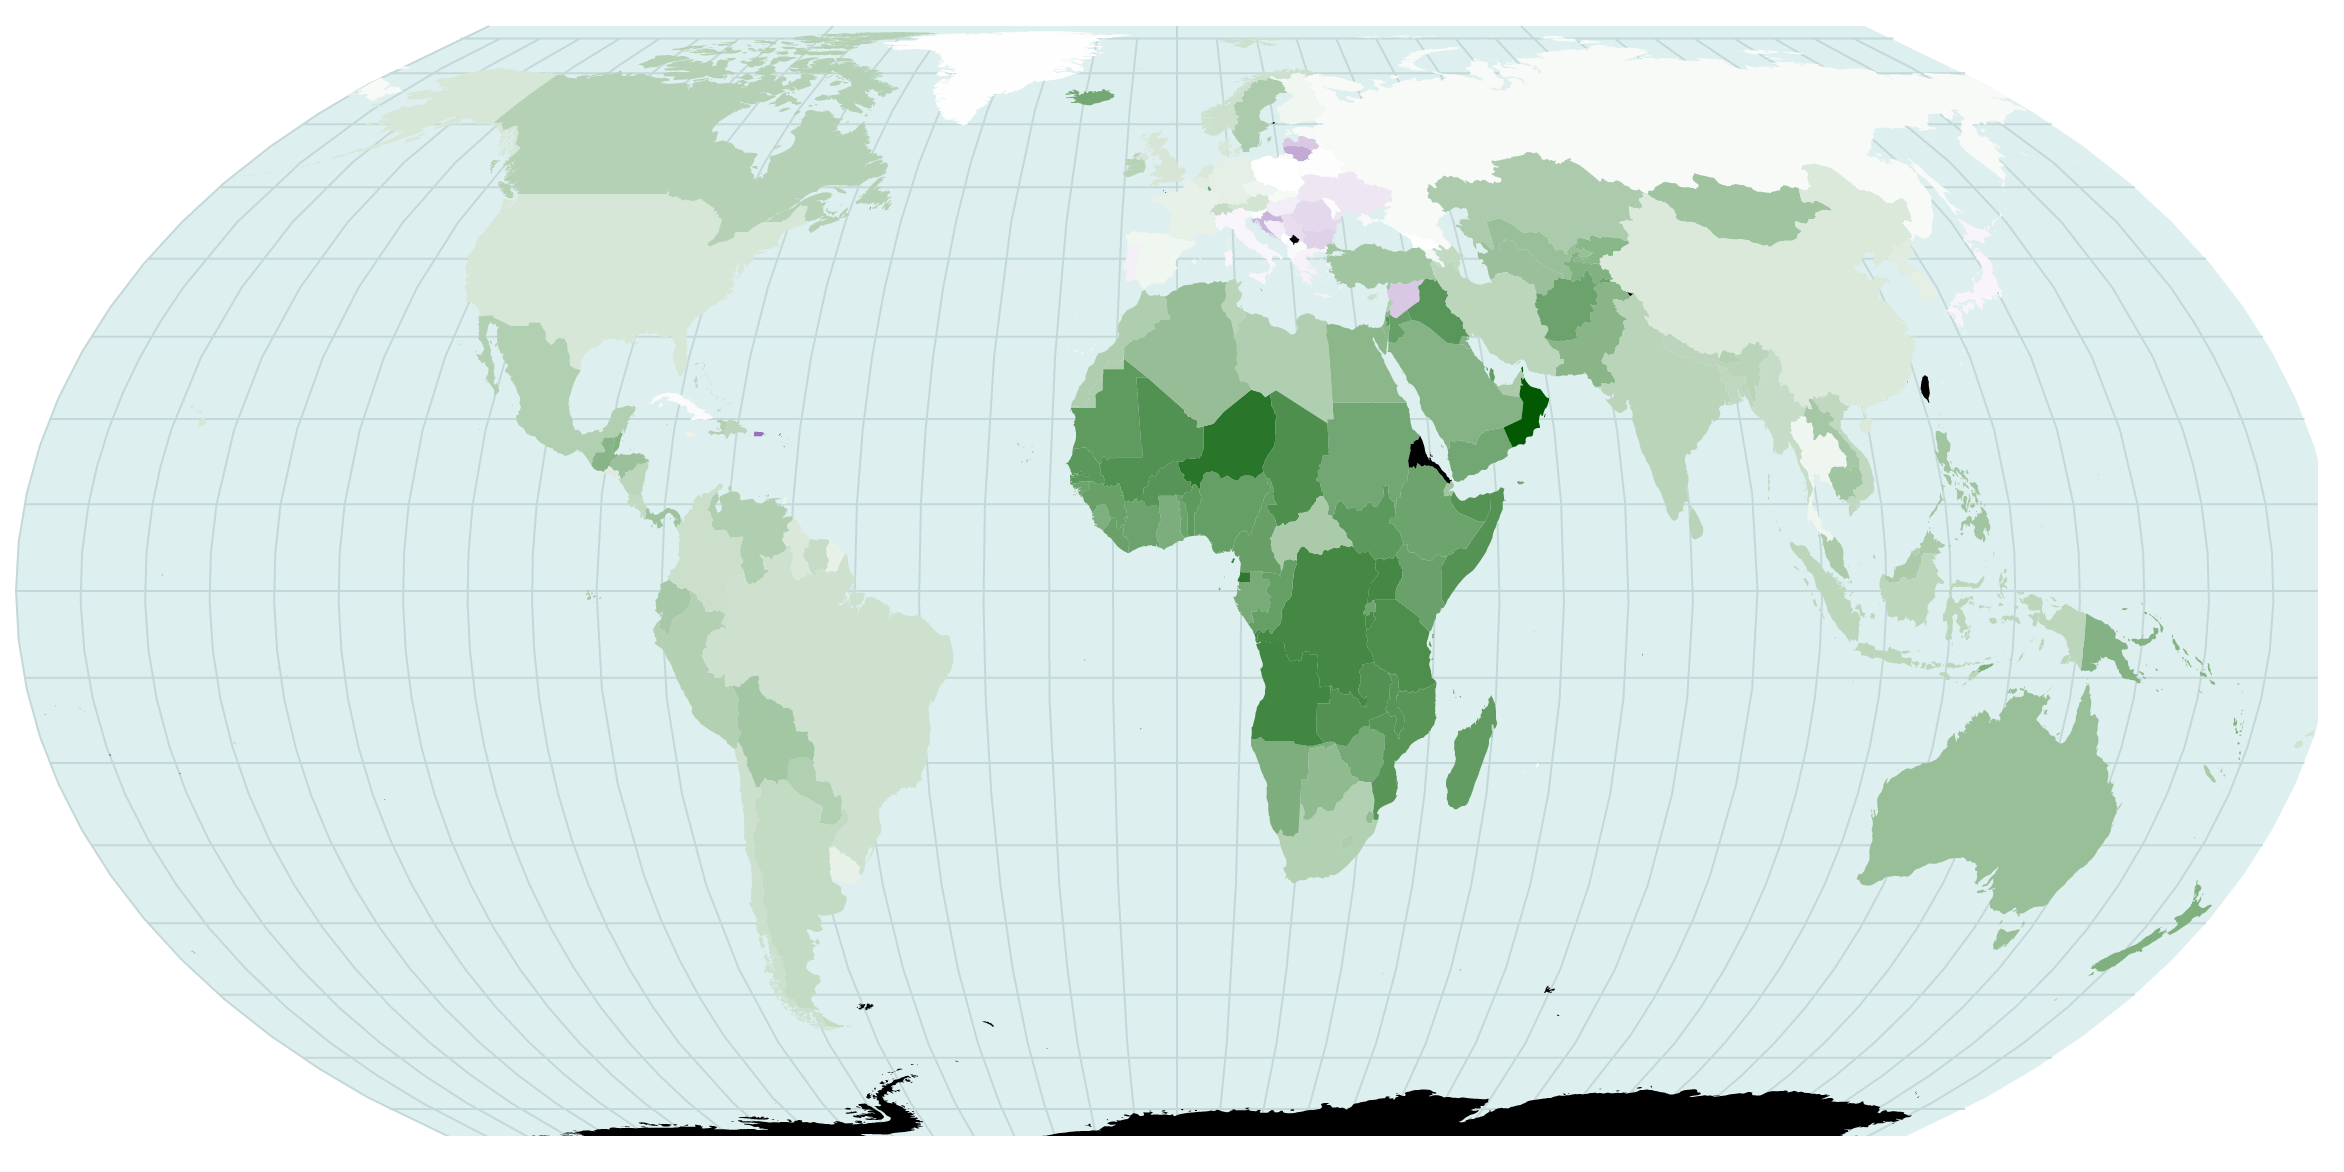
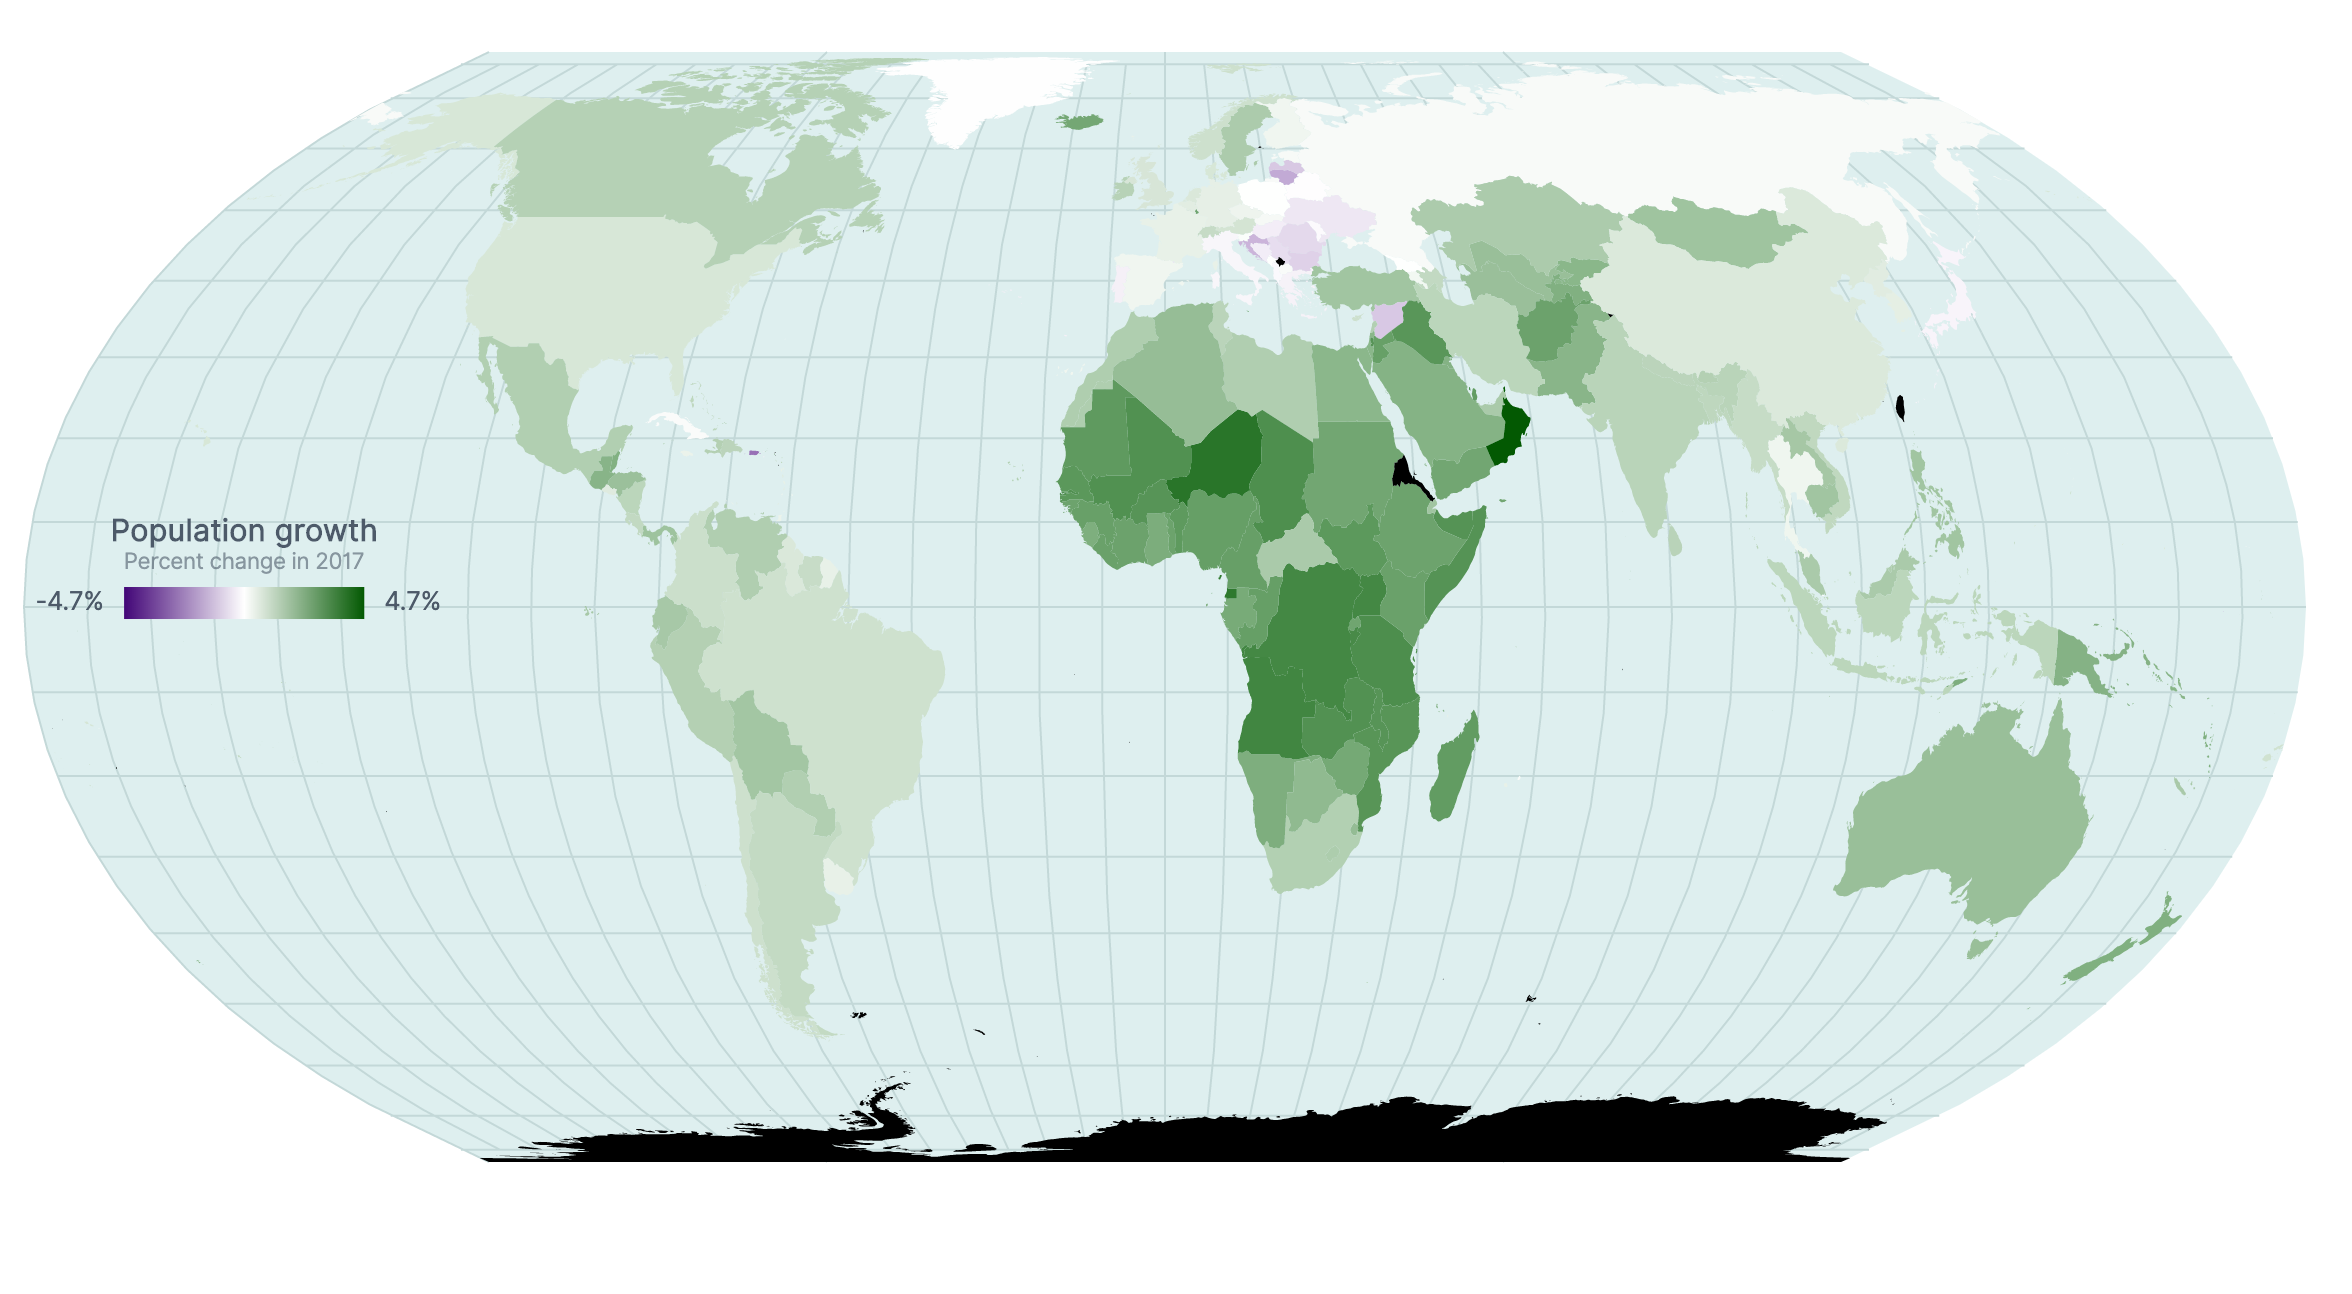
Map legend is now complete

diff --git a/examples/06-making-a-map/js/draw-map.js b/examples/06-making-a-map/js/draw-map.js
@@ -1,17 +1,17 @@
 async function drawMap() {
   // Access data
-  const countryShapes = await d3.json("./data/world-geojson.json")
-  const countryNameAccessor = d => d.properties["NAME"]
-  const countryIdAccessor = d => d.properties["ADM0_A3_IS"]
+  const countryShapes = await d3.json('./data/world-geojson.json')
+  const countryNameAccessor = d => d.properties['NAME']
+  const countryIdAccessor = d => d.properties['ADM0_A3_IS']
 
-  const dataset = await d3.csv("./data/world_bank_data.csv")
-  const metric = "Population growth (annual %)"
+  const dataset = await d3.csv('./data/world_bank_data.csv')
+  const metric = 'Population growth (annual %)'
 
   // We want an easy way to look up the population growth using a country name
   let metricDataByCountry = {}
   dataset.forEach(d => {
-    if (d["Series Name"] != metric) return
-    metricDataByCountry[d["Country Code"]] = d["2017 [YR2017]"] || 0
+    if (d['Series Name'] != metric) return
+    metricDataByCountry[d['Country Code']] = d['2017 [YR2017]'] || 0
   })
 
   // Create chart dimensions
@@ -25,13 +25,15 @@ async function drawMap() {
       left: 10,
     },
   }
-  dimensions.boundedWidth = dimensions.width
+  dimensions.boundedWidth =
+    dimensions.width - dimensions.margin.left - dimensions.margin.right
 
   // Define our globe using a mock GeoJSON object
-  const sphere = ({ type: "Sphere" })
-  const projection = d3.geoEqualEarth() // Each projection function has its own default size (think: range)
-    .fitWidth(dimensions.boundedWidth, sphere)  // Define our projection to be the same width as our bounds
-  const pathGenerator = d3.geoPath(projection)  // Generator function to help create our geographical shapes
+  const sphere = { type: 'Sphere' }
+  const projection = d3
+    .geoEqualEarth() // Each projection function has its own default size (think: range)
+    .fitWidth(dimensions.boundedWidth, sphere) // Define our projection to be the same width as our bounds
+  const pathGenerator = d3.geoPath(projection) // Generator function to help create our geographical shapes
 
   // Test
   // console.log(pathGenerator(sphere))  // Gives us a <path> d string
@@ -44,16 +46,22 @@ async function drawMap() {
 
   // We want the entire Earth to fit without our bounds, so define our boundedHeight to just cover the sphere
   dimensions.boundedHeight = y1
-  dimensions.height = dimensions.boundedHeight
+  dimensions.height =
+    dimensions.boundedHeight + dimensions.margin.top + dimensions.margin.bottom
 
   // Draw canvas
-  const wrapper = d3.select("#wrapper")
-    .append("svg")
-      .attr("width", dimensions.width)
-      .attr("height", dimensions.height)
+  const wrapper = d3
+    .select('#wrapper')
+    .append('svg')
+    .attr('width', dimensions.width)
+    .attr('height', dimensions.height)
 
-  const bounds = wrapper.append("g")
-    .style("transform", `translate(${dimensions.margin.left}px, ${dimensions.margin.top}px)`)
+  const bounds = wrapper
+    .append('g')
+    .style(
+      'transform',
+      `translate(${dimensions.margin.left}px, ${dimensions.margin.top}px)`
+    )
 
   // Create scales - The x and y scales are handled by our map projection; we just need a scale to turn metric values into colors
   const metricValues = Object.values(metricDataByCountry) // Grab all of the population growth values
@@ -62,41 +70,111 @@ async function drawMap() {
 
   // Our extent starts below zero, meaning that at least one country experienced negative population growth. Let's represent decline on a red color scale, growth on a green color scale, and neutral as white - a "diverging" color scale. All we need to do is add a middle value to the domain and range.
   const maxChange = d3.max([-metricValueExtent[0], metricValueExtent[1]])
-  const colorScale = d3.scaleLinear()
+  const colorScale = d3
+    .scaleLinear()
     // We are creating a scale which scales evenly on both sides
     .domain([-maxChange, 0, maxChange])
     // ACCESSIBILITY FTW: Why did we choose indigo and darkgreen? Common color blindness is red-green color blindness; this will allow those users to see differences in our color scale
-    .range(["indigo", "white", "darkgreen"])
+    .range(['indigo', 'white', 'darkgreen'])
 
   // Draw data
 
   // Draw the outline of the Earth first (all other elements will cover this outline)
-  const earth = bounds.append("path")
-    .attr("class", "earth")
-    .attr("d", pathGenerator(sphere))
+  const earth = bounds
+    .append('path')
+    .attr('class', 'earth')
+    .attr('d', pathGenerator(sphere))
 
   // Draw a graticule - a grid of latitudinal and longitudinal lines
   const graticuleJson = d3.geoGraticule10() // Generates a classic graticule with lines every 10 degrees
-  const graticule = bounds.append("path")   // pathGenerator() knows how to handle any GeoJSON type
-    .attr("class", "graticule")
-    .attr("d", pathGenerator(graticuleJson))
+  const graticule = bounds
+    .append('path') // pathGenerator() knows how to handle any GeoJSON type
+    .attr('class', 'graticule')
+    .attr('d', pathGenerator(graticuleJson))
 
   // Draw our countries
-  const countries = bounds.selectAll(".country")
+  const countries = bounds
+    .selectAll('.country')
     .data(countryShapes.features) // D3 will create one element per item in the dataset we pass in here
-    .enter().append("path")       // Create a new <path> for each item in our list of countries
-      .attr("class", "country")
-      // REMEMBER: .attr("d", pathGenerator) is the same as .attr("d", d => pathGenerator(d))
-      .attr("d", pathGenerator)
-      .attr("fill", d => {
-        const metricValue = metricDataByCountry[countryIdAccessor(d)] // Get the country's ID
-        if (typeof metricValue === undefined) return "#e2e6e9"  // If we are missing data, return white
-        return colorScale(metricValue)  // Fill with the value from our colorScale
-      })
+    .enter()
+    .append('path') // Create a new <path> for each item in our list of countries
+    .attr('class', 'country')
+    // REMEMBER: .attr("d", pathGenerator) is the same as .attr("d", d => pathGenerator(d))
+    .attr('d', pathGenerator)
+    .attr('fill', d => {
+      const metricValue = metricDataByCountry[countryIdAccessor(d)] // Get the country's ID
+      if (typeof metricValue === undefined) return '#e2e6e9' // If we are missing data, return white
+      return colorScale(metricValue) // Fill with the value from our colorScale
+    })
 
   // Draw peripherals
 
-  // Set up interactions
+  // Map legend
+  const legendGroup = wrapper
+    .append('g')
+    .attr(
+      'transform',
+      `translate(${120},${
+        dimensions.width < 800
+          ? dimensions.boundedHeight - 30
+          : dimensions.boundedHeight * 0.5
+      })`
+    )
 
+  const legendTitle = legendGroup
+    .append('text')
+    .attr('y', -23)
+    .attr('class', 'legend-title')
+    .text('Population growth')
+
+  const legendByline = legendGroup
+    .append('text')
+    .attr('y', -9)
+    .attr('class', 'legend-byline')
+    .text('Percent change in 2017')
+
+  const defs = wrapper.append('defs')
+  const legendGradientId = 'legend-gradient'
+  const gradient = defs
+    .append('linearGradient')
+    .attr('id', legendGradientId)
+    .selectAll('stop')
+    .data(colorScale.range())
+    .enter()
+    .append('stop')
+    .attr('stop-color', d => d)
+    .attr(
+      'offset',
+      (d, i) =>
+        `${
+          (i * 100) / 2 // 2 is one less than the number of items in our array (3 - 1)
+        }%`
+    )
+
+  const legendWidth = 120
+  const legendHeight = 16
+  const legendGradient = legendGroup
+    .append('rect')
+    .attr('x', -legendWidth / 2)
+    .attr('height', legendHeight)
+    .attr('width', legendWidth)
+    .style('fill', `url(#${legendGradientId})`)
+
+  const legendValueRight = legendGroup
+    .append('text')
+    .attr('class', 'legend-value')
+    .attr('x', legendWidth / 2 + 10)
+    .attr('y', legendHeight / 2)
+    .text(`${d3.format('.1f')(maxChange)}%`)
+
+  const legendValueLeft = legendGroup
+    .append('text')
+    .attr('class', 'legend-value')
+    .attr('x', -legendWidth / 2 - 10)
+    .attr('y', legendHeight / 2)
+    .text(`${d3.format('.1f')(-maxChange)}%`)
+    .style('text-anchor', 'end')
+
+  // Set up interactions
 }
 drawMap()
